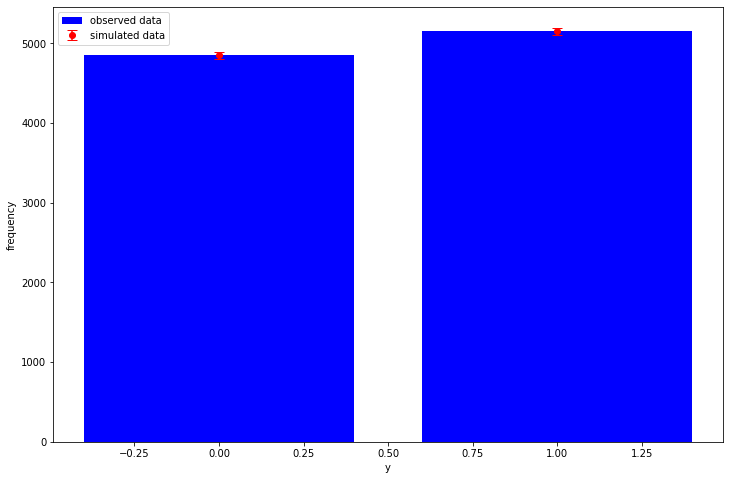
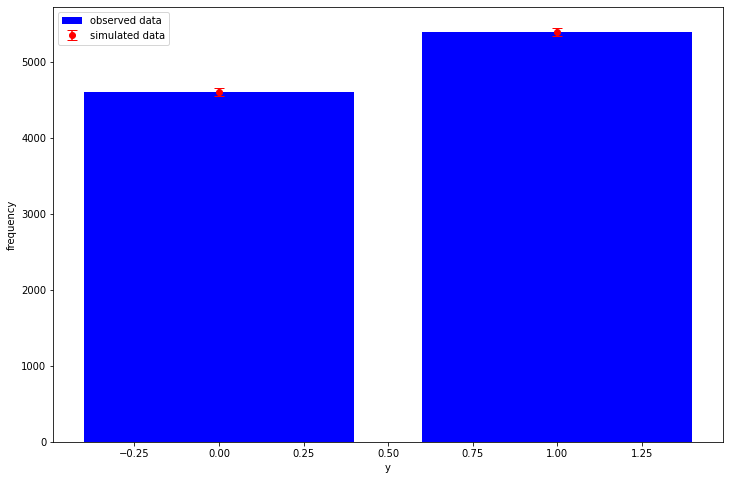
observation uses tfd.Independent so we need .distribution

diff --git a/_posts/2020-04-22-sample_distributions.html b/_posts/2020-04-22-sample_distributions.html
@@ -269,9 +269,15 @@ needed for <a href="http://mc-stan.org/loo/articles/loo2-with-rstan.html">LOO</a
 </p>
 
 <div class="org-src-container">
-<pre class="src src-jupyter-python"><span style="color: #DFAF8F;">log_lik</span> = posterior_distributions[-1].log_prob(y)
+<pre class="src src-jupyter-python"><span style="color: #DFAF8F;">log_lik</span> = posterior_distributions[-1].distribution.log_prob(y)
+<span style="color: #F0DFAF; font-weight: bold;">print</span>(log_lik.shape) <span style="color: #5F7F5F;"># </span><span style="color: #7F9F7F;">(draws, chains, num_observations)</span>
 </pre>
 </div>
+
+<pre class="example">
+(1000, 6, 10000)
+
+</pre>
 
 <p>
 It always annoyed me in stan when I had to re-write the observation model in the
